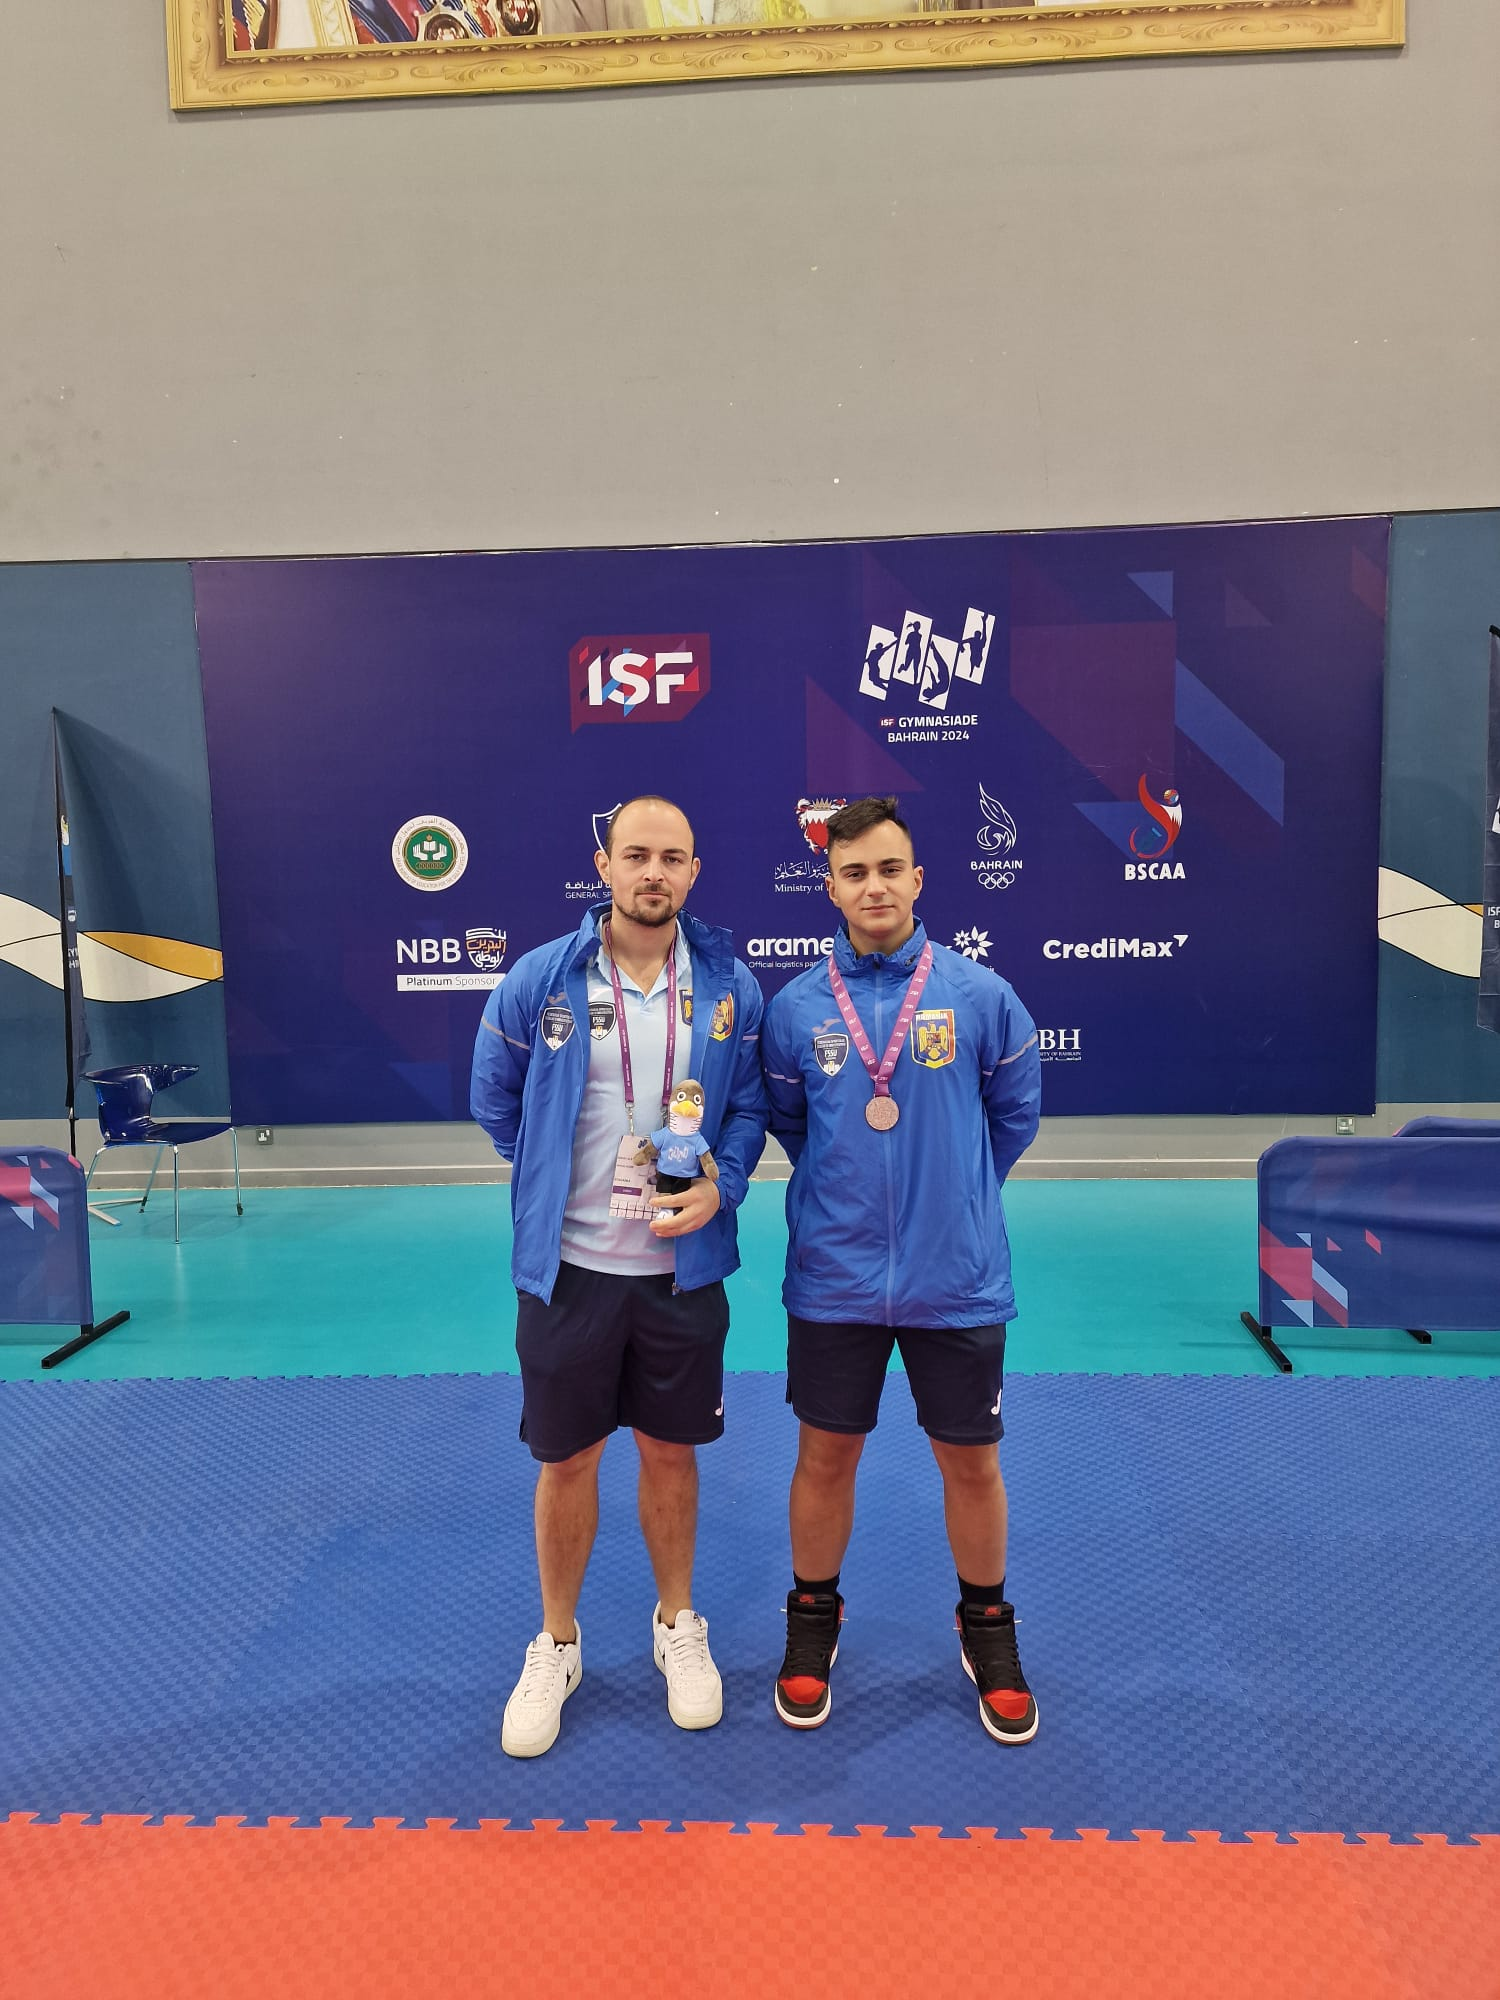
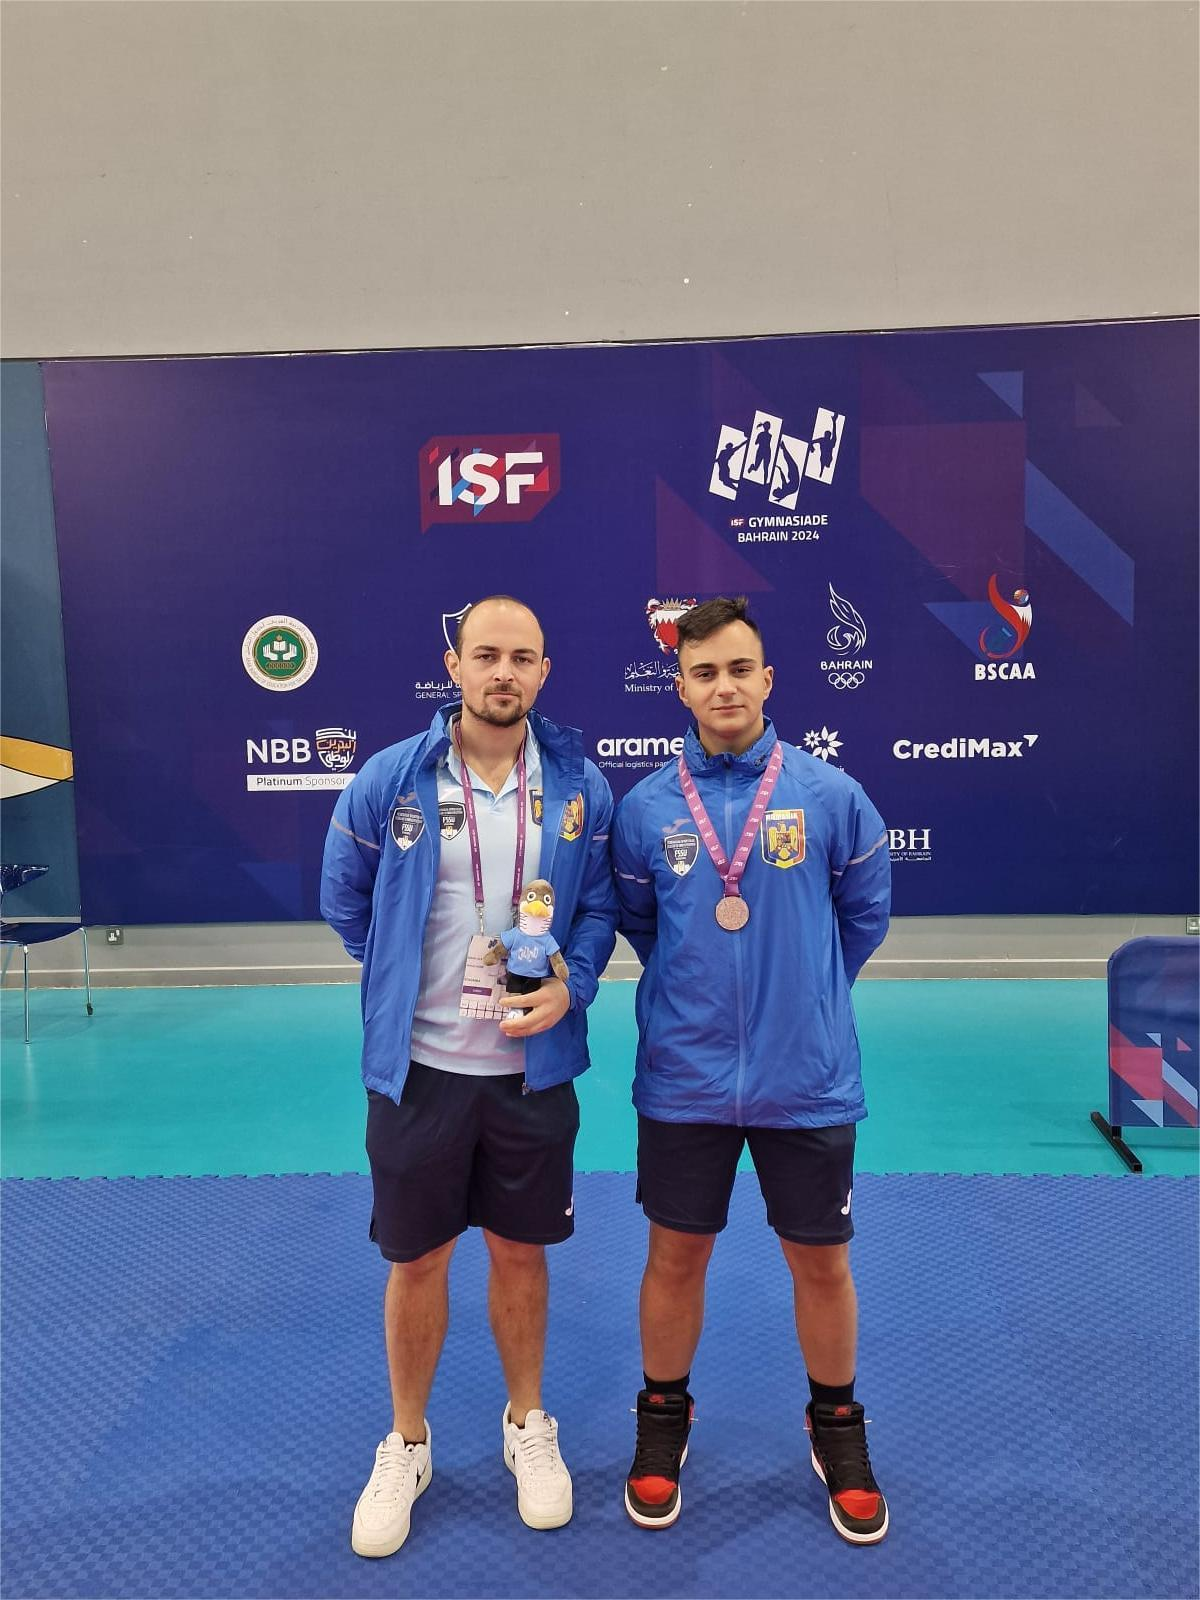
added all photos + fixed visual artifacts

diff --git a/app/pages/about/page.tsx b/app/pages/about/page.tsx
@@ -119,7 +119,7 @@ const timelineEvents = [
         id: "accolades",
         year: "2015 – 2025",
         title: "Accolades & Recognition",
-        image: "/about/accolades.jpg",
+        image: "/about/accolades1.jpg",
         description:
             "My collection of medals and trophies from various competitions is a source of pride and motivation. Each accolade represents a milestone in my journey, reflecting the countless hours of training, dedication, and sacrifice that I have invested. These awards not only celebrate my achievements but also inspire me to continue striving for excellence in all my future endeavors. Although cliché, I take pride in all of my achievements, but I am most proud of my personal growth and the lessons I have learned along the way. Today, I wouldn't be the same person without support from my family, my brother, my training partners and my sensei and to them, i express my sincerest gratitude.",
     },
@@ -155,6 +155,7 @@ export default function About() {
                     {timelineEvents.map((event, index) => (
                         <div
                             key={event.id}
+                            id={event.id}
                             className={`about-card ${index % 2 === 0 ? "about-card-left" : "about-card-right"}`}
                         >
                             <div className={`about-card-inner ${index % 2 === 0 ? "about-card-inner-left" : "about-card-inner-right"}`}>

diff --git a/app/globals.css b/app/globals.css
@@ -517,7 +517,9 @@ margin-left: auto;
 
 .photo-wrapper {
   width: auto;
-  height: 100%;
+  height: auto;
+  min-height: 300px;
+  max-height: 600px;
   border-radius: 12px;
   overflow: hidden;
   box-shadow: 0 4px 12px rgba(0, 0, 0, 0.1);
@@ -525,7 +527,10 @@ margin-left: auto;
 
 .photo-wrapper img {
   width: auto;
+  min-width: 400px;
   height: 100%;
+  min-height: 300px;
+  max-height: 600px;
   object-fit: contain;
   display: block;
 }
@@ -1705,6 +1710,24 @@ margin-left: auto;
   width: 100%;
   height: 100%;
   object-fit: cover;
+  display: block;
+}
+
+#accolades .about-card-photo {
+  overflow: visible;  /* Allow image to overflow */
+}
+
+#awards .about-card-photo img {
+  width: 100%;
+  height: 100%;
+  object-fit: contain;
+  display: block;
+}
+
+#accolades .about-card-photo img {
+  width: 100%;
+  height: 100%;
+  object-fit: contain;
   display: block;
 }
 

diff --git a/app/kumite/training-tips/page.tsx b/app/kumite/training-tips/page.tsx
@@ -94,7 +94,7 @@ const tips = [
         title: "Study Video",
         description:
             "Watch yourself spar. Watch professionals. Study your weaknesses and their strengths. Observation and analysis are as important as physical training.",
-        image: "/kumite-video.jpg",
+        image: "/kumite/tips/kumite-video.jpg",
         color: "tips-kumite-amber",
     },
 ];
